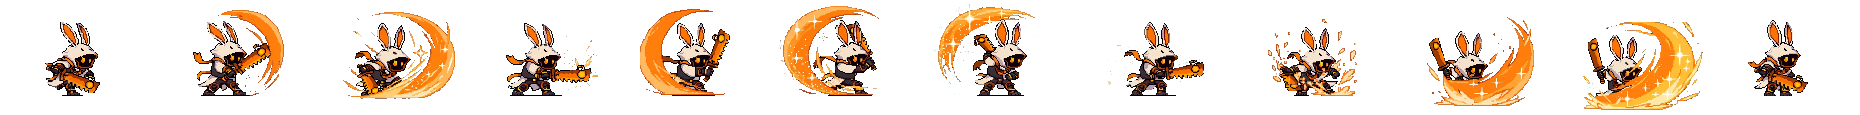
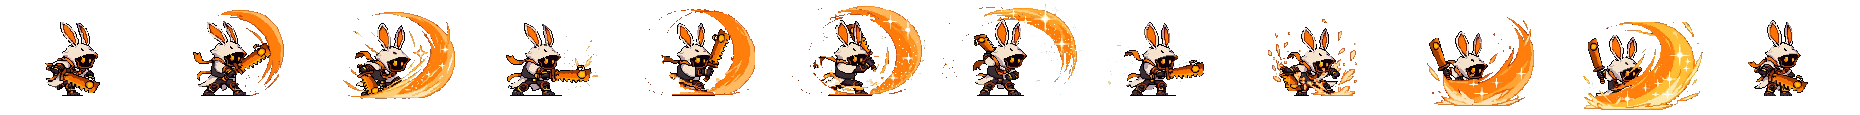
Rabbit attack frames 5-7: arc moved to the front (owner's ask), unflipped sheet kept
Claude-Session: https://claude.ai/code/session_01TXxUxQt8qPPSTWTLTuDzys

Changed region(s): [[0.343, 0.0522, 0.5925, 0.8348], [0.5613, 0.6, 0.5925, 0.6261]]

diff --git a/tools/art/hood_fx_flip.py b/tools/art/hood_fx_flip.py
@@ -1,0 +1,35 @@
+# Owner 2026-11-14 "567 กลับเอฟเฟกต์มาอีกฝั่ง": in attack frames 5, 6, 7 (indices 4-6 of rabbit_attack.png) the big arc is drawn BEHIND the rabbit (left);
+# move it to the front: the arc pixels (bright orange / yellow / white, no dark outline, big patches) are mirrored about the head line
+# and laid UNDER the body. The unflipped sheet is kept as rabbit_attack_noflip.png.
+import json, numpy as np
+from PIL import Image
+from scipy import ndimage as nd
+SRC = 'art/sidegame/rabbit_attack.png'; J = json.load(open(SRC.replace('.png', '.json'))); CW, CH = J['cw'], J['ch']; FX = J['feet'][0]
+import os
+NF = SRC.replace('.png', '_noflip.png')
+if not os.path.exists(NF): Image.open(SRC).save(NF)
+im = Image.open(NF).convert('RGBA')   # always start from the unflipped sheet
+a = np.asarray(im).copy()
+for i in (4, 5, 6):
+    c = a[:, i * CW:(i + 1) * CW].copy(); rgb = c[..., :3].astype(int); al = c[..., 3] > 0
+    mx, mn = rgb.max(2), rgb.min(2)
+    glow = al & (mx > 200) & ((rgb[..., 0] > 200) & (rgb[..., 2] < 200) | (mn > 215))   # orange / yellow / near-white
+    # the rabbit itself is ringed by a dark outline: close it, fill it, and never take pixels from inside it
+    dark = al & (mx < 90); body_m = nd.binary_fill_holes(nd.binary_closing(dark, np.ones((3, 3)), 2)); body_m = nd.binary_dilation(body_m, iterations=1)
+    head = np.abs(np.arange(CW)[None, :] - FX) <= 17; near_line = nd.binary_dilation(dark, iterations=3)
+    glow &= ~body_m & ~(head & near_line)   # ears: thin, their outline is not always closed, so near-outline pixels in the head zone stay
+    lab, n = nd.label(glow, np.ones((3, 3)))
+    fx = np.zeros_like(al)
+    for k in range(1, n + 1):
+        m = lab == k; ys, xs = np.where(m)
+        if xs.mean() < FX - 6 and (m.sum() > 60 or xs.max() < FX - 20): fx |= m
+    # sparkles / specks left of the body go with the arc
+    fx |= al & ~body_m & (mx > 150) & (np.arange(CW)[None, :] < FX - 30)
+    body = c.copy(); body[fx] = 0
+    eff = np.zeros_like(c); eff[fx] = c[fx]
+    eff = eff[:, ::-1]; sh = 2 * FX - (CW - 1)   # mirror about x = FX
+    eff = np.roll(eff, sh, axis=1)
+    if sh > 0: eff[:, :sh] = 0
+    elif sh < 0: eff[:, sh:] = 0
+    out = Image.fromarray(eff); out.alpha_composite(Image.fromarray(body)); a[:, i * CW:(i + 1) * CW] = np.asarray(out)
+Image.fromarray(a).save(SRC)

diff --git a/docs/action-game.md b/docs/action-game.md
@@ -1426,3 +1426,4 @@ Theme after the owner's references: an animal HOOD shows the animal, body inside
 - Rabbit run in `side.html?hero=rabbit` (cells 128x96, 0 stance, 1-8 loop at 16 fps, feet x 50 y 92; `&dust=1` = PixelLab's puffs kept). Ground fix for every hero: the grass tiles have 17 empty px on top, so the tiles are now drawn 17 px higher (`GRASS`) and feet stand on the visible grass (both heroes floated before). Shot `art/incoming/hood/side_rabbit_run_shot.png`. For Meta attack clips: `art/incoming/hood/META_rabbit_x8.png` + `PROMPT_META_rabbit_attack.txt`.
 - Rabbit ATTACK (owner 2026-11-14, a 12-frame sheet made outside from `META_rabbit_x8.png`, free): `art/incoming/hood/attack/sheet_raw.webp` (3 rows x 4: horizontal swing, overhead smash, thrust; effects drawn in). `tools/art/hood_attack_cut.py` puts it back on our pixel grid (period 315/75 = 4.2, phase found per frame, cell centres sampled), lines the feet up with the run and KEEPS the effects → `art/sidegame/rabbit_attack.png` (cells 153x117, feet 56,101). In `side.html?hero=rabbit`: J / K or the ⚔ button, pressing again during a hit queues the next (3-hit combo), the hero is planted while swinging, the impact frames shake the view 2 px. Shot `art/incoming/hood/side_rabbit_attack_shot.png`. No monsters on this test map yet.
 - Rabbit attack v2 (owner "ภาพมันกระโดด เอาอันนี้แทน" + a second 12-frame sheet, free): `art/incoming/hood/attack/sheet2_raw.webp` (big orange arcs). `tools/art/hood_attack_cut.py v2` lines the frames up by the glowing EYES (head stays at the run stance's head, only blade and arcs move; v1 frames wandered up to 30 px) → `art/sidegame/rabbit_attack.png` (cells 155x115, feet 77,96). The first sheet stays as `rabbit_attack_v1.png`. Combo timings in `side.html` ATK.hits; previews `art/incoming/hood/rabbit_combo2.gif` (game speed) and `_slow.gif` (x3).
+- Owner "567 กลับเอฟเฟกต์มาอีกฝั่ง": in attack frames 5-7 (indices 4-6) the arc was behind the rabbit; `tools/art/hood_fx_flip.py` mirrors the arc pixels (bright, outside the outlined body, ears protected) about the head line and lays them under the body. Unflipped sheet kept: `art/sidegame/rabbit_attack_noflip.png` (the script always starts from it).
